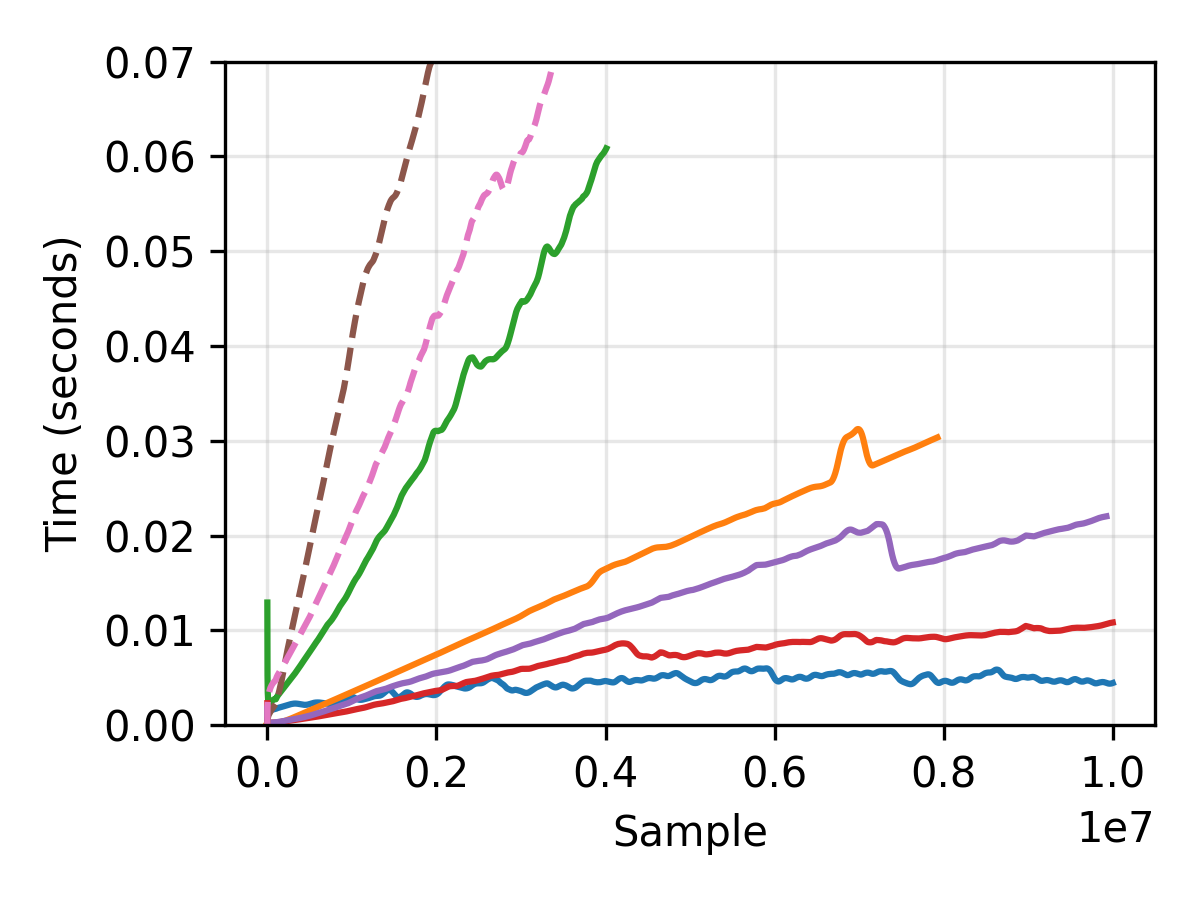
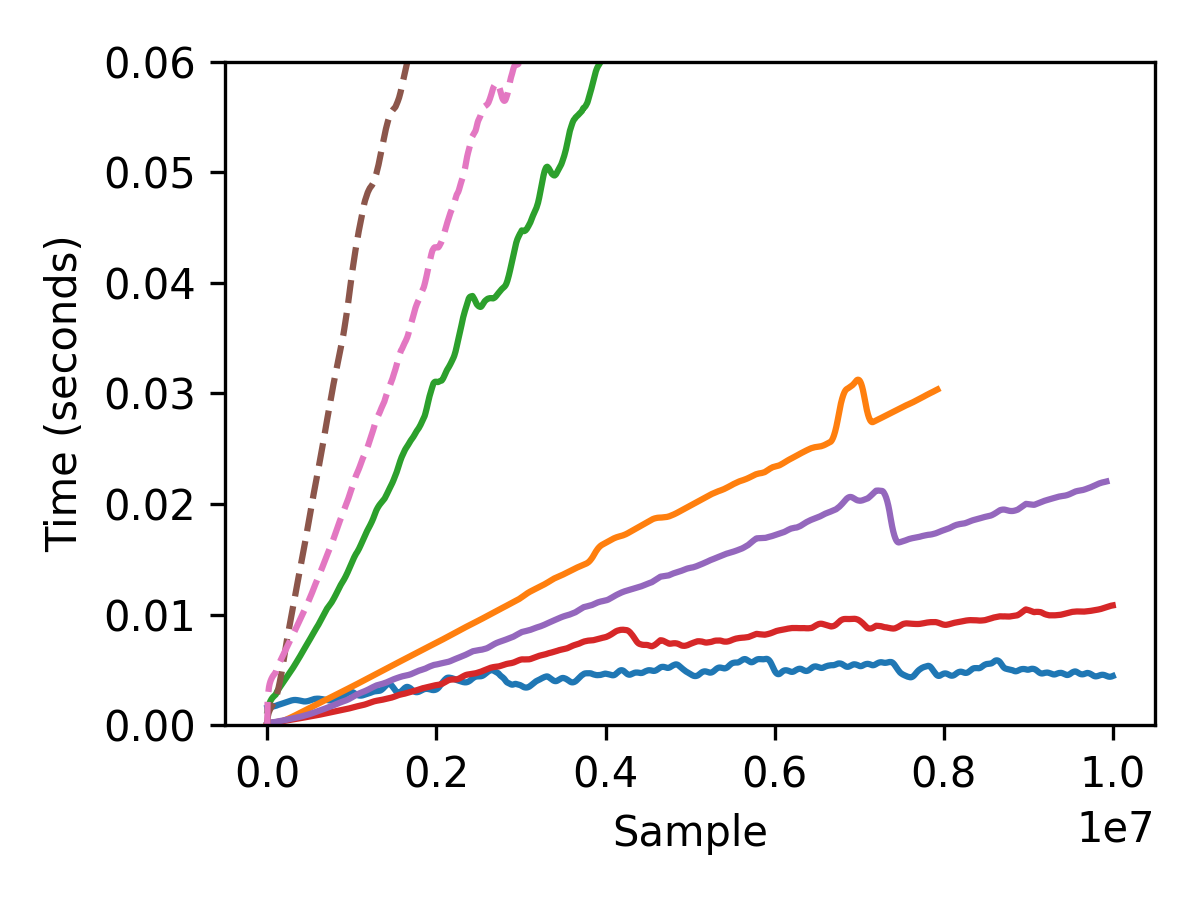
tweak plots in samples

diff --git a/results/performance/plot.py b/results/performance/plot.py
@@ -79,7 +79,7 @@ for filepath in glob.glob(os.path.join(args.results_dir, 'results/*/*.json')):
         file_info = parse_filename(filepath)
         #if args.sample == "11:" and file_info['parallelization'] != '1':
         #    continue
-        data.append({**file_info, 'timings': result['timings'][:args.truncate]})
+        data.append({**file_info, 'timings': result['timings'][args.omit_beginning:args.truncate]})
 
 # Sort data by norm, batchsize, method
 data.sort(key=lambda x: (x['parallelization'], x['norm'], x['method']))
@@ -88,15 +88,15 @@ data.sort(key=lambda x: (x['parallelization'], x['norm'], x['method']))
 plt.figure(figsize=(4, 3))
 
 for item in data:
-    x = np.arange(len(item['timings'][args.omit_beginning:]))[::1000]
-    y = rolling_average(item['timings'][args.omit_beginning:], args.windowsize)[::1000]
+    x = np.arange(len(item['timings']))[::1000]
+    y = rolling_average(item['timings'], args.windowsize)[::1000]
     y = rolling_average(y, args.windowsize // 1000) # More smoothing
     plt.plot(x, y, '-' if item['parallelization'] == '1' else '--', label=item["name"])
 
 plt.xlabel('Sample')
 plt.ylabel('Time (seconds)')
-plt.ylim(top=0.07, bottom=0)
-plt.grid(True, alpha=0.3)
+plt.ylim(top=0.06, bottom=0)
+#plt.grid(True, alpha=0.3)
 #plt.title(f"dropcols={args.sample}, eps={args.eps}")
 #plt.legend()
 plt.tight_layout()
